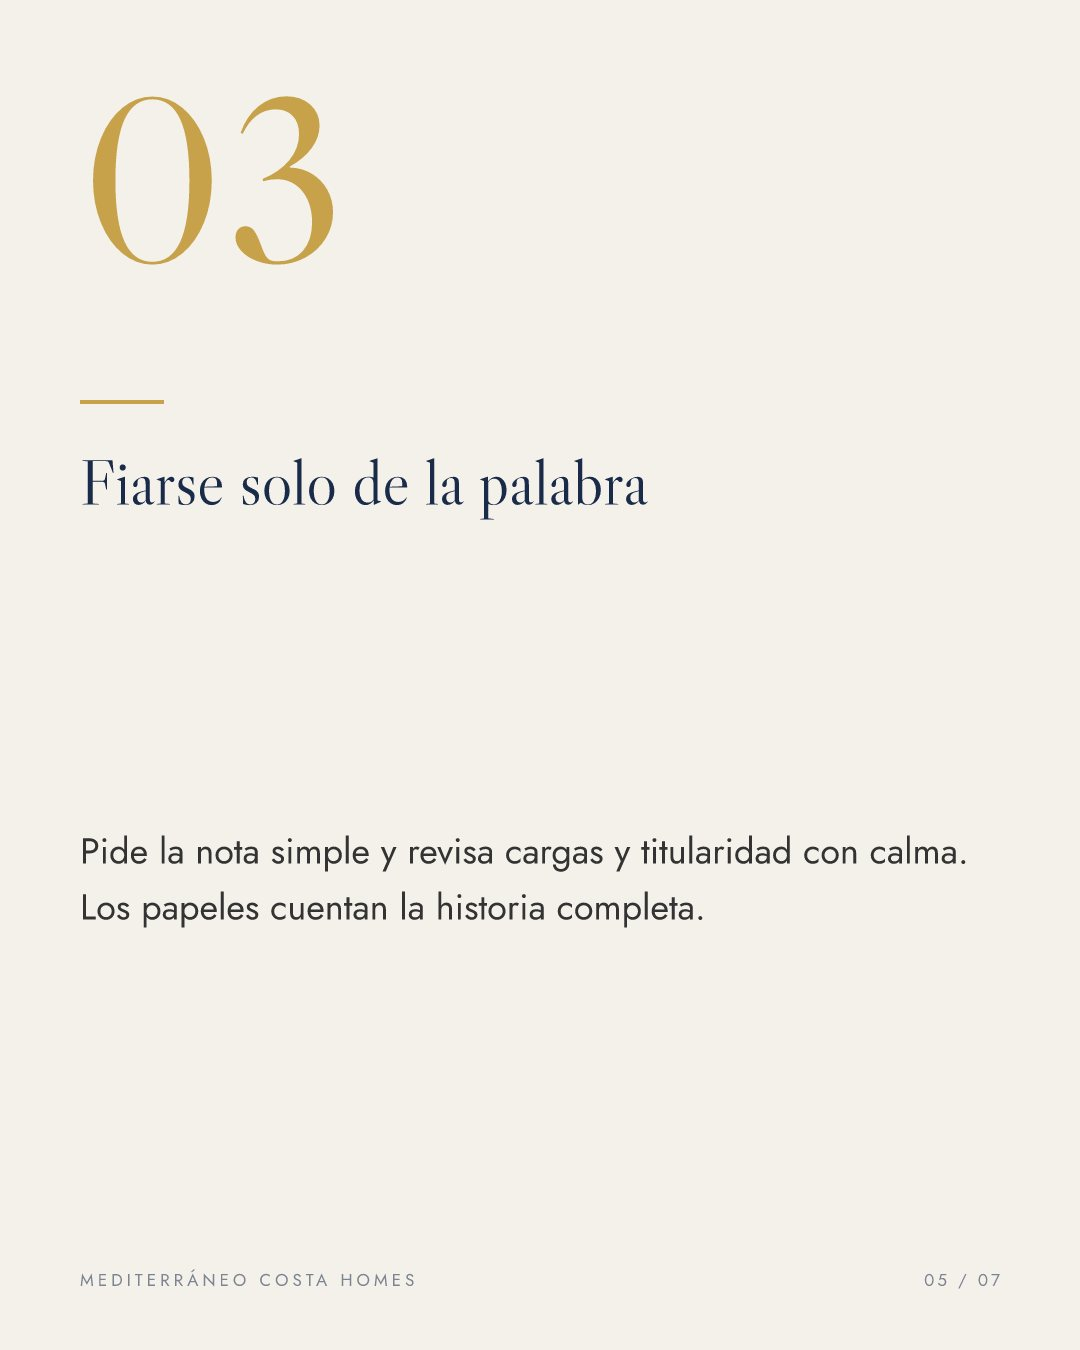
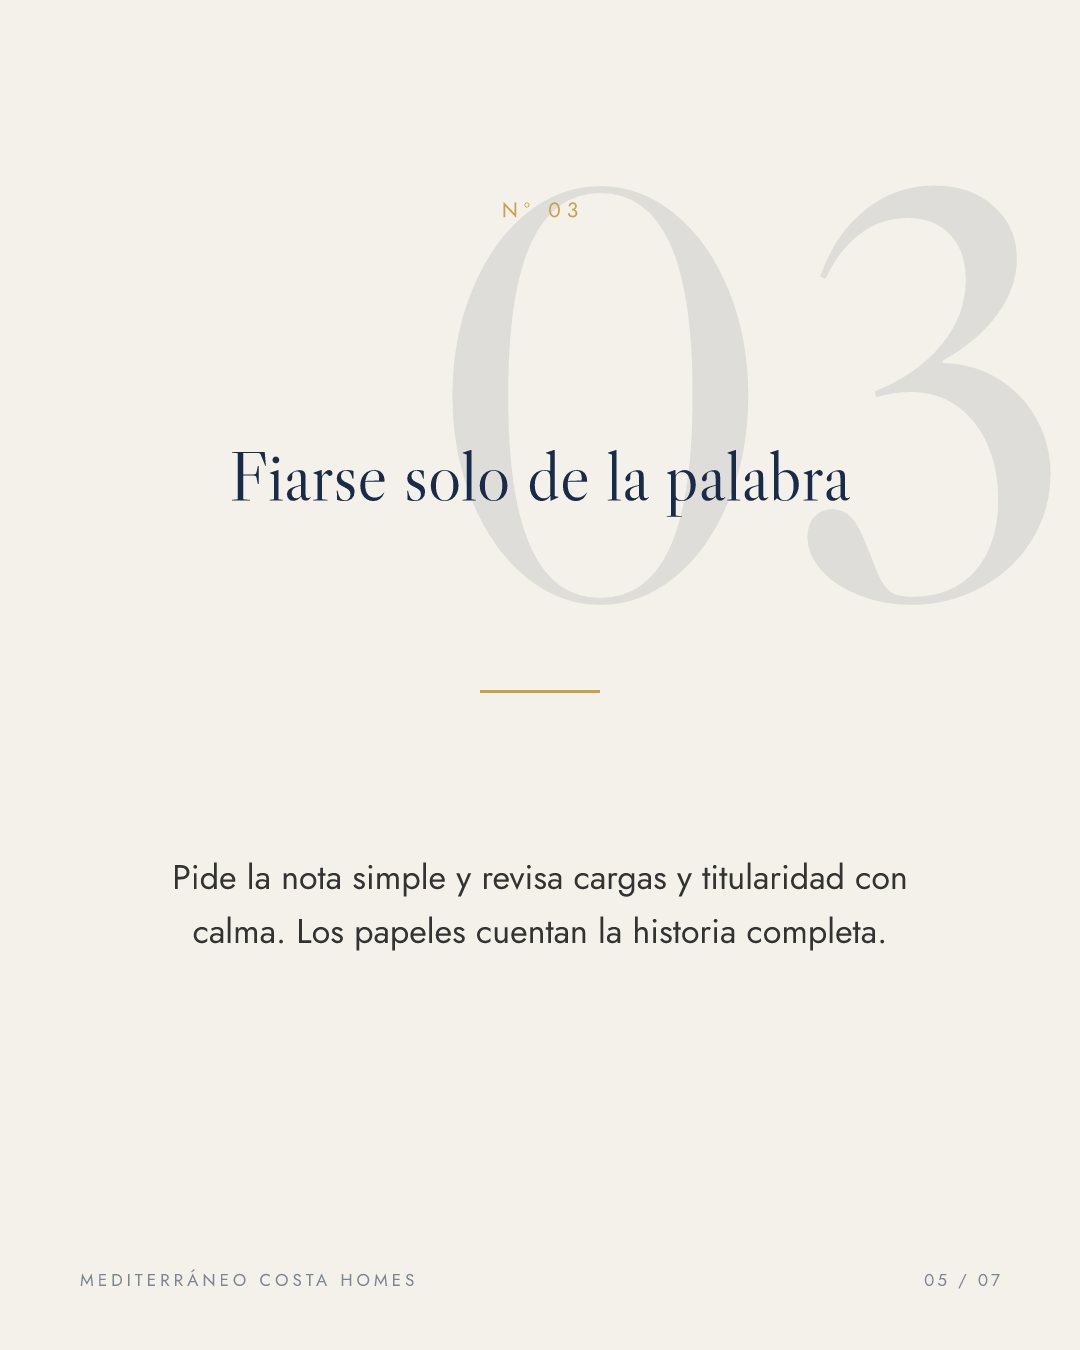
feat(studio): Christian's 6-point batch (2026-08-28 16:38) — (1) WITHIN-DECK VARIETY for the calm text styles ('not changing it up enough throughout the slides'): editorial tips rotate classic numeral page → colour-flipped STATEMENT page (title at 96px display scale) → ghost-numeral centered page; s

diff --git a/apps/api/src/routes/studio-wizard.ts b/apps/api/src/routes/studio-wizard.ts
@@ -363,6 +363,8 @@ function shapeStatus(r: GenRow) {
     carousel_style: typeof (meta as any)?.carousel_style === 'string' ? (meta as any).carousel_style : undefined,
     per_slide_art: (meta as any)?.per_slide_art === true ? true : undefined,
     artwork_source: typeof (meta as any)?.artwork_source === 'string' ? (meta as any).artwork_source : undefined,
+    brand_navy: typeof (r as any).raw_request?.brand_navy === 'string' ? (r as any).raw_request.brand_navy : undefined,
+    brand_gold: typeof (r as any).raw_request?.brand_gold === 'string' ? (r as any).raw_request.brand_gold : undefined,
     caption: typeof (meta as any)?.caption === 'string' ? (meta as any).caption : undefined,
     hashtags: Array.isArray((meta as any)?.hashtags) ? (meta as any).hashtags : undefined,
     plan: (meta as any)?.plan && typeof (meta as any).plan === 'object' ? (meta as any).plan : undefined,
@@ -1149,9 +1151,8 @@ route.post('/carousel', async (c) => {
   const scheme = typeof b.scheme === 'string' && TIPS_SCHEMES[b.scheme] ? b.scheme : 'clasico';
   // optional two-colour override (Christian 2026-08-28): main = brand.navy, accent = brand.gold —
   // chrome/type only; artwork palette stays with the colour-mood scheme
-  const hex = (v: unknown): string | null => typeof v === 'string' && /^#[0-9a-fA-F]{6}$/.test(v) ? v : null;
-  const brandNavy = hex(b.brand_navy);
-  const brandGold = hex(b.brand_gold);
+  const brandNavy = hexColour(b.brand_navy);
+  const brandGold = hexColour(b.brand_gold);
 
   try {
     // ── tips / quote: no property needed — brand + agency identity only ──────
@@ -1302,9 +1303,14 @@ route.post('/carousel/update', async (c) => {
     `);
     const bRows = bRes as unknown as any[];
     const { agency, brand } = mapBranding(bRows[0] || {});
+    // colour override: a NEW choice sent with this edit wins over the stored one, and is
+    // persisted so every later re-render keeps it (Christian 2026-08-28: "possible to edit
+    // those colors when you get to the finished product too")
     const rawU = (rows[0].raw_request ?? {}) as Record<string, unknown>;
-    if (typeof rawU.brand_navy === 'string') brand.navy = rawU.brand_navy;
-    if (typeof rawU.brand_gold === 'string') brand.gold = rawU.brand_gold;
+    const effNavy = hexColour(b.brand_navy) ?? (typeof rawU.brand_navy === 'string' ? rawU.brand_navy : null);
+    const effGold = hexColour(b.brand_gold) ?? (typeof rawU.brand_gold === 'string' ? rawU.brand_gold : null);
+    if (effNavy) brand.navy = effNavy;
+    if (effGold) brand.gold = effGold;
     const contact = [agency.web, agency.phone].filter(Boolean).join(' · ');
 
     // re-render in the SAME visual style the carousel was created with
@@ -1324,10 +1330,10 @@ route.post('/carousel/update', async (c) => {
           ? await renderTipsImageStyledV2(storedStyle, plan, agency.name, contact, brand, images, storedLang, meta?.include_recap !== false, meta?.include_context !== false, typeof meta?.layout_variant === 'number' ? meta.layout_variant : 0, ctxArt)
           : await renderTipsImageStyled(storedStyle, plan, agency.name, contact, brand, images, storedLang);
       } else {
-        slides = await renderPlannedStyled('editorial', plan, agency.name, contact, brand, storedLang, typeof rawU.style_edition === 'number' ? rawU.style_edition : 0, !!(rawU.brand_navy || rawU.brand_gold));
+        slides = await renderPlannedStyled('editorial', plan, agency.name, contact, brand, storedLang, typeof rawU.style_edition === 'number' ? rawU.style_edition : 0, !!(effNavy || effGold));
       }
     } else {
-      slides = await renderPlannedStyled(storedStyle, plan, agency.name, contact, brand, storedLang, typeof rawU.style_edition === 'number' ? rawU.style_edition : 0, !!(rawU.brand_navy || rawU.brand_gold));
+      slides = await renderPlannedStyled(storedStyle, plan, agency.name, contact, brand, storedLang, typeof rawU.style_edition === 'number' ? rawU.style_edition : 0, !!(effNavy || effGold));
     }
     const stored = await storeSlides(agencyId, genId, slides);
 
@@ -1338,6 +1344,9 @@ route.post('/carousel/update', async (c) => {
         ...meta, slide_count: stored.length, slides: stored,
         plan, caption: plan.caption, hashtags: plan.hashtags,
       },
+      ...(hexColour(b.brand_navy) || hexColour(b.brand_gold)
+        ? { raw_request: { ...rawU, ...(effNavy ? { brand_navy: effNavy } : {}), ...(effGold ? { brand_gold: effGold } : {}) } }
+        : {}),
       updated_at: new Date().toISOString(),
     }).eq('id', genId).eq('agency_id', agencyId);
 
@@ -1423,6 +1432,9 @@ route.get('/suggestions', async (c) => {
 //   layout → same everything, per-tip layout rotation shifts (per-slide-art decks only)
 // The remix lands as a NEW generation so the original stays in the library untouched.
 const REMIX_IMG_RING = ['bodegon', 'litoral', 'tinta', 'salitre', 'papel', 'arcilla', 'acuarela', 'bordado', 'pueblo', 'mercado'];
+
+/** strict #rrggbb or null — the only shape the colour override accepts */
+const hexColour = (v: unknown): string | null => typeof v === 'string' && /^#[0-9a-fA-F]{6}$/.test(v) ? v : null;
 const REMIX_TYPE_RING = ['editorial', 'cartel', 'encalada', 'sereno'];
 route.post('/carousel/remix', async (c) => {
   const tx = c.get('tx');

diff --git a/apps/dashboard/app/(app)/studio/carousel-studio.tsx b/apps/dashboard/app/(app)/studio/carousel-studio.tsx
@@ -136,9 +136,14 @@ export function CarouselStudio({ initialTopic = "", initialLanguage, resumeGenId
   const [customColours, setCustomColours] = useState(false);
   const [colMain, setColMain] = useState("#1a2b4a");
   const [colAccent, setColAccent] = useState("#c8a24b");
+  // colours are also editable on the FINISHED deck (Christian 2026-08-28: "sometimes you chose
+  // wrong just and need to change to see") — re-renders from stored artwork, no regeneration
+  const [resColMain, setResColMain] = useState("#1a2b4a");
+  const [resColAccent, setResColAccent] = useState("#c8a24b");
+  const [recolouring, setRecolouring] = useState(false);
   const [quoteText, setQuoteText] = useState("");
   const [quoteAuthor, setQuoteAuthor] = useState("");
-  const [language, setLanguage] = useState(initialLanguage ?? "es");
+  const [language, setLanguage] = useState(LANGS.some(([c]) => c === initialLanguage) ? initialLanguage! : "es");
   const [style, setStyle] = useState("editorial");
   const [scheme, setScheme] = useState("clasico");
   // otra vuelta (one-axis remix)
@@ -190,6 +195,8 @@ export function CarouselStudio({ initialTopic = "", initialLanguage, resumeGenId
     if (typeof s.carousel_style === "string") setResultStyle(s.carousel_style);
     setResultPerSlideArt(s.per_slide_art === true);
     setResultArtSource(typeof s.artwork_source === "string" ? s.artwork_source : "");
+    setResColMain(typeof s.brand_navy === "string" ? (s.brand_navy as string) : "#1a2b4a");
+    setResColAccent(typeof s.brand_gold === "string" ? (s.brand_gold as string) : "#c8a24b");
     setEditing(false); setDraft(null); setRemixed(false);
     setPhase("result");
   }
@@ -579,6 +586,21 @@ export function CarouselStudio({ initialTopic = "", initialLanguage, resumeGenId
                 className="flex items-center gap-1.5 rounded-lg border border-neutral-300 px-3 py-2 text-sm text-neutral-700 hover:bg-neutral-50 dark:border-neutral-700 dark:text-neutral-300">
                 <Pencil className="h-4 w-4" /> Edit the text on the slides
               </button>
+              <span className="flex items-center gap-1.5 rounded-lg border border-neutral-300 px-2.5 py-1.5 dark:border-neutral-700">
+                <label className="flex cursor-pointer items-center"><input type="color" value={resColMain} onChange={(e) => setResColMain(e.target.value)} className="h-6 w-7 cursor-pointer rounded border-0 bg-transparent p-0" title="Main colour" /></label>
+                <label className="flex cursor-pointer items-center"><input type="color" value={resColAccent} onChange={(e) => setResColAccent(e.target.value)} className="h-6 w-7 cursor-pointer rounded border-0 bg-transparent p-0" title="Accent colour" /></label>
+                <button disabled={recolouring} onClick={async () => {
+                  if (!genId || !plan) return;
+                  setRecolouring(true); setErr(null);
+                  const r = await carouselUpdateAction(genId, plan, { navy: resColMain, gold: resColAccent });
+                  setRecolouring(false);
+                  if (!r.ok) { setErr((r.message as string) ?? "Couldn't change the colours — please try again."); return; }
+                  setSlides(Array.isArray(r.slides) ? (r.slides as string[]) : slides);
+                  setSaved(false);
+                }} className="text-sm font-medium text-neutral-700 hover:text-neutral-900 disabled:opacity-50 dark:text-neutral-300 dark:hover:text-neutral-100">
+                  {recolouring ? "Recolouring…" : "Apply colours"}
+                </button>
+              </span>
               {plan.type === "tips" && ([
                 ["hook", "Otra vuelta · new hook", "The AI reframes the cover from a different angle"],
                 ["style", "Otra vuelta · new look", "Same words and artwork, next look"],

diff --git a/studio/engine/carouselSlides.ts b/studio/engine/carouselSlides.ts
@@ -231,6 +231,48 @@ function tipsSlide2(plan: CarouselPlan, agency: string, brand: CarouselBrand, to
 
 /** Value slide — one idea: oversized gold numeral, heading, 15-40 word body, open-loop footer pill. */
 function tipSlide(slideIndex: number, tipNumber: number, total: number, tip: { title: string; body: string; teaser: string }, agency: string, brand: CarouselBrand) {
+  // three rotating compositions (Christian 2026-08-28: "not changing it up enough throughout the
+  // slides… make it interesting — font wise, or size wise") — a deck's tips now alternate between
+  // the classic numeral page, an inverted full-colour STATEMENT page, and a ghost-numeral page.
+  const v = (tipNumber - 1) % 3;
+
+  if (v === 1) {
+    // THE STATEMENT — colour-flipped, the title as the hero at display scale
+    const titleTxt = wrap(tip.title, SERIF, 96, W - 2 * M);
+    const tLines = titleTxt.split("\n").length;
+    const elements: any[] = [
+      { type: "text", bbox: [M, 110, 700, 146], content: `Nº ${String(tipNumber).padStart(2, "0")}`, font: SANS, size: 21, colour: brand.gold, align: "left", tracking: 6 },
+      { type: "text", bbox: [M, 230, W - M, 230 + tLines * 110 + 10], content: titleTxt, font: SERIF, size: 96, colour: brand.cream, align: "left", line_height: 110 },
+      { type: "rect", bbox: [M, 250 + tLines * 110 + 40, M + 120, 250 + tLines * 110 + 43], fill: brand.gold },
+      { type: "text", bbox: [M, 880, W - M, 1110], content: wrap(tip.body, SANS, 34, W - 2 * M), font: SANS, size: 34, colour: mix(brand.cream, brand.navy, 0.85), align: "left", line_height: 52, valign: "center" },
+      ...(tip.teaser ? [{
+        type: "text", bbox: [M, 1150, 900, 1198], content: tip.teaser, font: SANS, size: 26,
+        colour: brand.navy, align: "left", weight: "500", valign: "center",
+        pill: { fill: brand.gold, pad_x: 28, pad_y: 14 },
+      }] : []),
+      ...footerBand(agency, slideIndex, total, brand, brand.navy, true),
+    ];
+    return DesignSpec.parse({ background: brand.navy, elements });
+  }
+
+  if (v === 2) {
+    // THE GHOST — an oversized numeral melts into the paper behind a centered title
+    const elements: any[] = [
+      { type: "text", bbox: [420, 120, 1500, 1250], content: String(tipNumber).padStart(2, "0"), font: SERIF, size: 640, colour: mix(brand.cream, brand.navy, 0.9), align: "left" },
+      { type: "text", bbox: [M, 200, W - M, 236], content: `Nº ${String(tipNumber).padStart(2, "0")}`, font: SANS, size: 21, colour: brand.gold, align: "center", tracking: 6 },
+      { type: "text", bbox: [M, 330, W - M, 640], content: wrap(tip.title, SERIF, 70, W - 2 * M - 80), font: SERIF, size: 70, colour: brand.navy, align: "center", line_height: 84, valign: "center" },
+      { type: "rect", bbox: [W / 2 - 60, 690, W / 2 + 60, 693], fill: brand.gold },
+      { type: "text", bbox: [M + 60, 750, W - M - 60, 1080], content: wrap(tip.body, SANS, 34, W - 2 * M - 120), font: SANS, size: 34, colour: brand.text, align: "center", line_height: 54, valign: "center" },
+      ...(tip.teaser ? [{
+        type: "text", bbox: [M, 1145, W - M, 1193], content: tip.teaser, font: SANS, size: 25,
+        colour: brand.cream, align: "center", weight: "500", valign: "center",
+        pill: { fill: brand.navy, pad_x: 28, pad_y: 13 },
+      }] : []),
+      ...footerBand(agency, slideIndex, total, brand, brand.cream, false),
+    ];
+    return DesignSpec.parse({ background: brand.cream, elements });
+  }
+
   const elements: any[] = [
     { type: "text", bbox: [M, 70, 640, 340], content: String(tipNumber).padStart(2, "0"), font: SERIF, size: 250, colour: brand.gold, align: "left" },
     { type: "rect", bbox: [M, 400, M + 84, 404], fill: brand.gold },

diff --git a/studio/engine/carouselStyles.ts b/studio/engine/carouselStyles.ts
@@ -365,6 +365,39 @@ function serenoPlanned(plan: CarouselPlan, agency: string, contact: string, bran
   } else {
     // value slides: LOT-style numerals + plate captions
     plan.tips.forEach((tip, i) => {
+      // rotating compositions (Christian 2026-08-28): classic page → grand ghost numeral → centered air
+      const v = i % 3;
+      if (v === 1) {
+        specs.push(DesignSpec.parse({
+          background: warm,
+          elements: [
+            { type: "text", bbox: [560, 60, 1500, 1300], content: String(i + 1).padStart(2, "0"), font: FR, size: 620, colour: mix(warm, GOLD, 0.68), align: "left" },
+            { type: "text", bbox: [96, 110, 800, 140], content: `Nº ${i + 1} · ${plan.eyebrow.toUpperCase()}`, font: "Glacial Indifference", size: 19, colour: inkMuted, align: "left", tracking: 5 },
+            { type: "rect", bbox: [96, 200, 240, 201.5], fill: NAVY, opacity: 0.4 },
+            { type: "text", bbox: [96, 280, 620, 700], content: wrap(tip.title, FR, 54, 520), font: FR, size: 54, colour: NAVY, align: "left", line_height: 68 },
+            { type: "text", bbox: [96, 760, 600, 1110], content: wrap(tip.body, "Jost", 30, 500), font: "Jost", size: 30, colour: mix(NAVY, warm, 0.8), align: "left", line_height: 48, valign: "center" },
+            ...(tip.teaser ? [{ type: "text", bbox: [96, 1140, 900, 1186], content: tip.teaser.toUpperCase(), font: "Glacial Indifference", size: 19, colour: inkMuted, align: "left", tracking: 4 }] : []),
+            spine(i + 3), folioLine(i + 3, inkMuted),
+          ],
+        }));
+        return;
+      }
+      if (v === 2) {
+        specs.push(DesignSpec.parse({
+          background: warm,
+          elements: [
+            ...frame([70, 70, 1010, 1280], NAVY, 1.2, 0.3),
+            { type: "text", bbox: [96, 190, 984, 224], content: `Nº ${i + 1} · ${plan.eyebrow.toUpperCase()}`, font: "Glacial Indifference", size: 19, colour: inkMuted, align: "center", tracking: 6 },
+            { type: "text", bbox: [96, 280, 984, 400], content: String(i + 1).padStart(2, "0"), font: FR, size: 96, colour: GOLD, align: "center" },
+            { type: "text", bbox: [130, 460, 950, 740], content: wrap(tip.title, FR, 62, 780), font: FR, size: 62, colour: NAVY, align: "center", line_height: 78, valign: "center" },
+            { type: "rect", bbox: [480, 790, 600, 791.5], fill: NAVY, opacity: 0.4 },
+            { type: "text", bbox: [170, 850, 910, 1110], content: wrap(tip.body, "Jost", 31, 700), font: "Jost", size: 31, colour: mix(NAVY, warm, 0.8), align: "center", line_height: 50, valign: "center" },
+            ...(tip.teaser ? [{ type: "text", bbox: [96, 1150, 984, 1190], content: tip.teaser.toUpperCase(), font: "Glacial Indifference", size: 18, colour: inkMuted, align: "center", tracking: 4 }] : []),
+            folioLine(i + 3, inkMuted),
+          ],
+        }));
+        return;
+      }
       specs.push(DesignSpec.parse({
         background: warm,
         elements: [

diff --git a/apps/dashboard/app/(app)/studio/studio-home.tsx b/apps/dashboard/app/(app)/studio/studio-home.tsx
@@ -145,9 +145,10 @@ function StyleCard({ img, name, desc, swatches, onClick }: {
 }
 
 export function StudioHome({
-  initialLibrary, quota: _quota, firstName, agencyName, greeting,
+  initialLibrary, quota: _quota, firstName, agencyName, greeting, uiLanguage = "es",
 }: {
   initialLibrary: LibraryItem[]; quota: Quota; firstName: string; agencyName: string; greeting: string;
+  uiLanguage?: string;   // the post language defaults to the user's dashboard language (Christian 2026-08-28)
 }) {
   const [view, setView] = useState<View>("home");
   const [menuId, setMenuId] = useState<string | null>(null);
@@ -182,9 +183,9 @@ export function StudioHome({
     return initialLibrary.filter((i) => i.section === activeSection);
   }, [initialLibrary, activeSection]);
 
-  if (view === "templates") return <SubViewShell onBack={() => setView("home")}><EditableWizard /></SubViewShell>;
+  if (view === "templates") return <SubViewShell onBack={() => setView("home")}><EditableWizard initialLanguage={uiLanguage} /></SubViewShell>;
   if (view === "smart") return <SubViewShell onBack={() => setView("home")}><SmartStudio /></SubViewShell>;
-  if (view === "carousel") return <SubViewShell onBack={() => { setResumeGenId(undefined); setView("home"); }} crumb="Tips carousel"><CarouselStudio initialTopic={pendingTopic} initialLanguage={pendingLang} resumeGenId={resumeGenId} /></SubViewShell>;
+  if (view === "carousel") return <SubViewShell onBack={() => { setResumeGenId(undefined); setView("home"); }} crumb="Tips carousel"><CarouselStudio initialTopic={pendingTopic} initialLanguage={pendingLang ?? uiLanguage} resumeGenId={resumeGenId} /></SubViewShell>;
   if (view === "renovation") return <SubViewShell onBack={() => setView("home")}><StudioWizard initialLibrary={initialLibrary} initialFork="renovation" /></SubViewShell>;
 
   if (view === "library") {

diff --git a/apps/dashboard/app/(app)/studio/editable-wizard.tsx b/apps/dashboard/app/(app)/studio/editable-wizard.tsx
@@ -90,7 +90,7 @@ async function runLimited<T>(items: T[], n: number, fn: (t: T, i: number) => Pro
   await Promise.all(workers);
 }
 
-export function EditableWizard() {
+export function EditableWizard({ initialLanguage }: { initialLanguage?: string } = {}) {
   const [step, setStep] = useState<"gallery" | "property" | "template" | "edit" | "classic">("gallery");
   const [editFrom, setEditFrom] = useState<"gallery" | "template">("gallery");
 
@@ -130,7 +130,7 @@ export function EditableWizard() {
   const [defaults, setDefaults] = useState<Defaults | null>(null);
   const [text, setText] = useState<Record<string, string>>({});
   const [colours, setColours] = useState<Record<string, string>>({});
-  const [language, setLanguage] = useState("en");
+  const [language, setLanguage] = useState(LANGS.some((l) => l.code === initialLanguage) ? initialLanguage! : "en");
   const [preview, setPreview] = useState<string | null>(null);
   const [rendering, setRendering] = useState(false);
   const [err, setErr] = useState<string | null>(null);

diff --git a/apps/dashboard/app/(app)/studio/wizard-actions.ts b/apps/dashboard/app/(app)/studio/wizard-actions.ts
@@ -203,8 +203,8 @@ export async function carouselAction(input: {
 export async function carouselStyleExamplesAction(): Promise<Envelope> {
   return call("/api/studio/carousel/style-examples");
 }
-export async function carouselUpdateAction(generationId: string, plan: unknown): Promise<Envelope> {
-  return call("/api/studio/carousel/update", { method: "POST", body: { generation_id: generationId, plan } });
+export async function carouselUpdateAction(generationId: string, plan: unknown, colours?: { navy?: string; gold?: string }): Promise<Envelope> {
+  return call("/api/studio/carousel/update", { method: "POST", body: { generation_id: generationId, plan, ...(colours?.navy ? { brand_navy: colours.navy } : {}), ...(colours?.gold ? { brand_gold: colours.gold } : {}) } });
 }
 // GET INSPIRED: 6 fresh tips-carousel topic ideas (free; exclude = already-shown ideas)
 export async function carouselTopicIdeasAction(language: string, exclude: string[]): Promise<Envelope> {

diff --git a/apps/dashboard/app/(app)/studio/page.tsx b/apps/dashboard/app/(app)/studio/page.tsx
@@ -71,6 +71,7 @@ export default async function StudioPage() {
       firstName={firstName}
       agencyName={agencyName}
       greeting={greeting}
+      uiLanguage={ctx?.uiLanguage ?? "es"}
     />
   );
 }
